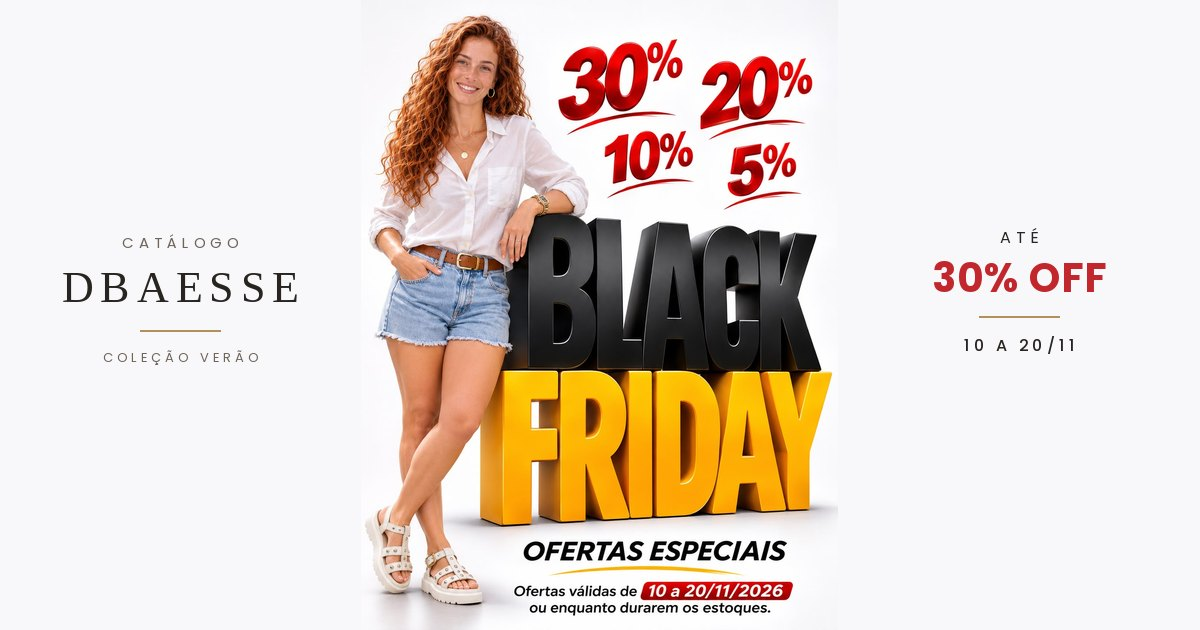
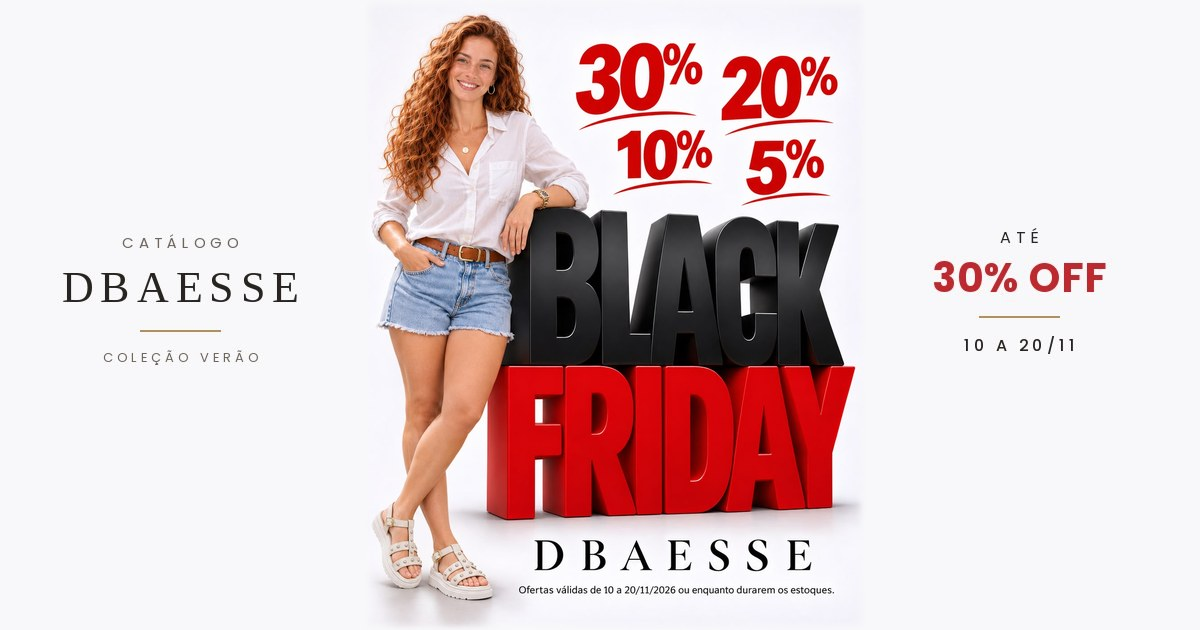
Black Friday: arte vermelha com a marca DBAESSE no topo e na capa do WhatsApp
Claude-Session: https://claude.ai/code/session_011sTmrK6mbVb9b22PCepLTZ

Changed region(s): [[0.3083, 0.0302, 0.7092, 0.9952], [0.3392, 0.9952, 0.4008, 1.0]]

diff --git a/index.html b/index.html
@@ -11,19 +11,19 @@
 <meta property="og:title" content="DBAESSE · Catálogo de Calçados Femininos">
 <meta property="og:description" content="Papetes, salto bloco, rasteiras, sapatilhas e mocassins. Conheça a coleção.">
 <meta property="og:url" content="https://dbaesse-catalogo.vercel.app/">
-<meta property="og:image" content="https://raw.githubusercontent.com/leonardonandes-cmyk/DBAESSE-catalogo/main/capa-blackfriday.jpg?v=1">
+<meta property="og:image" content="https://raw.githubusercontent.com/leonardonandes-cmyk/DBAESSE-catalogo/main/capa-blackfriday.jpg?v=2">
 <meta property="og:image:width" content="1200">
 <meta property="og:image:height" content="630">
 <meta property="og:locale" content="pt_BR">
 <meta name="twitter:card" content="summary_large_image">
 <meta name="twitter:title" content="DBAESSE · Catálogo de Calçados Femininos">
 <meta name="twitter:description" content="Papetes, salto bloco, rasteiras, sapatilhas e mocassins. Conheça a coleção.">
-<meta name="twitter:image" content="https://raw.githubusercontent.com/leonardonandes-cmyk/DBAESSE-catalogo/main/capa-blackfriday.jpg?v=1">
+<meta name="twitter:image" content="https://raw.githubusercontent.com/leonardonandes-cmyk/DBAESSE-catalogo/main/capa-blackfriday.jpg?v=2">
 <meta name="theme-color" content="#ffffff">
 <link rel="preconnect" href="https://fonts.googleapis.com">
 <link rel="preconnect" href="https://fonts.gstatic.com" crossorigin>
 <link rel="preconnect" href="https://raw.githubusercontent.com" crossorigin>
-<link rel="preload" as="image" fetchpriority="high" href="https://raw.githubusercontent.com/leonardonandes-cmyk/DBAESSE-catalogo/main/banner-blackfriday.jpg">
+<link rel="preload" as="image" fetchpriority="high" href="https://raw.githubusercontent.com/leonardonandes-cmyk/DBAESSE-catalogo/main/banner-blackfriday2.jpg">
 <link href="https://fonts.googleapis.com/css2?family=Cormorant+Garamond:wght@500;600;700&family=DM+Serif+Display&family=Jost:wght@300;400;500;600&display=swap" rel="stylesheet">
 <style>
   :root{--bg:#ffffff;--ink:#141210;--soft:#4e4841;--line:#e2dbcf;--champagne:#b8955a;--studio:#e9e3d9;--card:#fff;--mut:#a99f8e;--gold:#b8955a;--dark:#1c1a17}
@@ -488,7 +488,7 @@ function fotoUrls(row, idx){
   return urlsRef((row[idx.ref]||"").trim());
 }
 // BANNER PROMOCIONAL: nome da arte no repo (sem extensão). Deixe "" para voltar ao banner normal.
-const BANNER_PROMO="banner-blackfriday";
+const BANNER_PROMO="banner-blackfriday2";
 function setHero(ref){
   const lista=urlsRef(ref||"banner-home");
   if(!lista.length) return;
